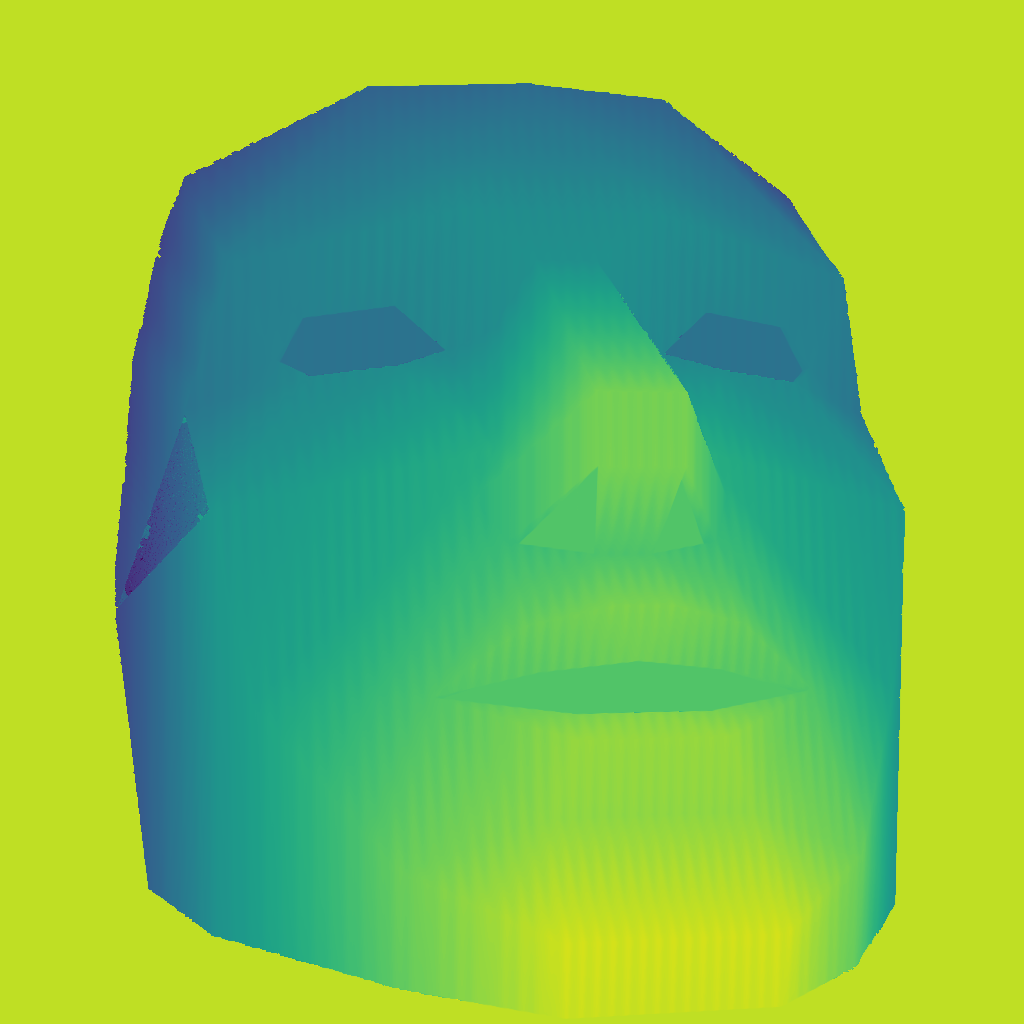
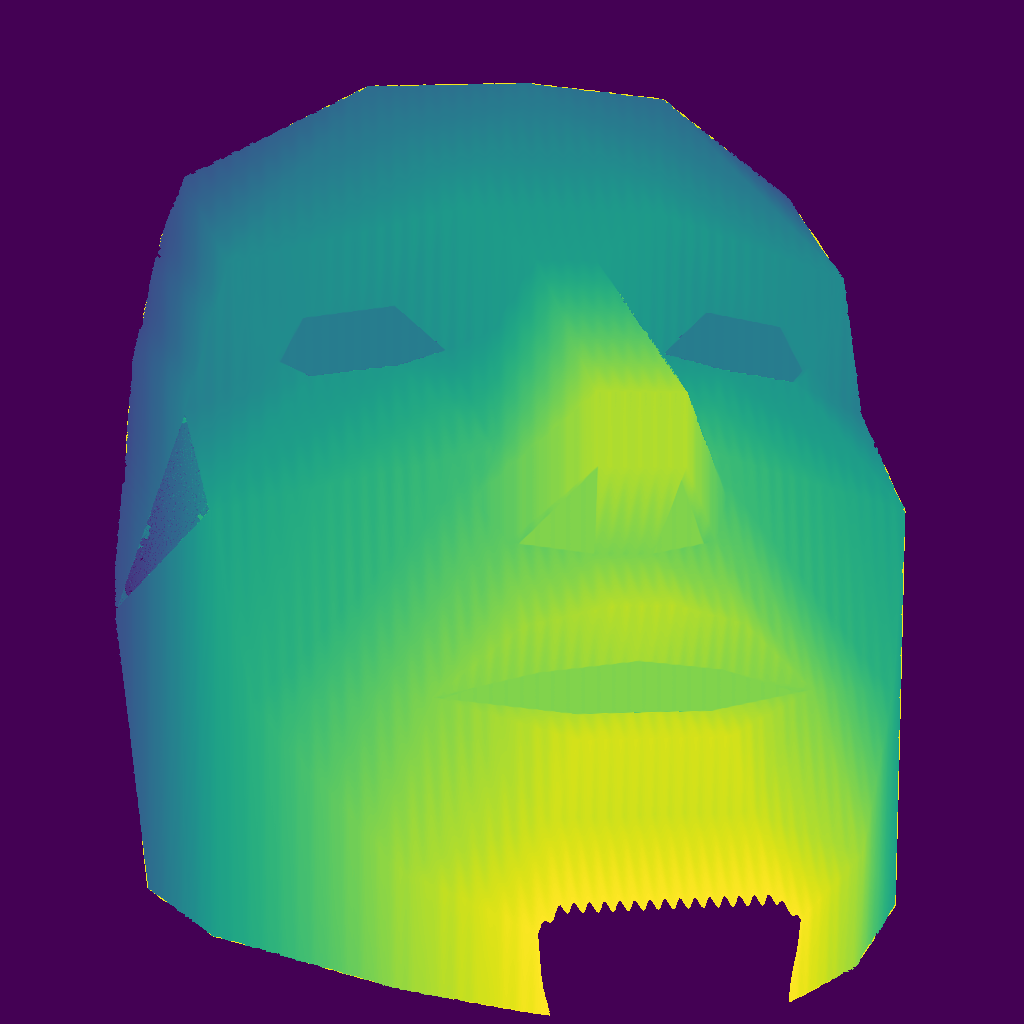
inv

diff --git a/Algorithm.py b/Algorithm.py
@@ -37,8 +37,9 @@ def reconst(phaseobj,phaseref,l,d,f):
 	# 	for y in x:
 	# 		if y <0.008:
 	# 			z*(-1)
+	minimum=np.min(z)
 	l=np.where(z>-32) 
-	z[l]=z[l]*(-1)
+	z[l]=minimum
 
 	return z
 
